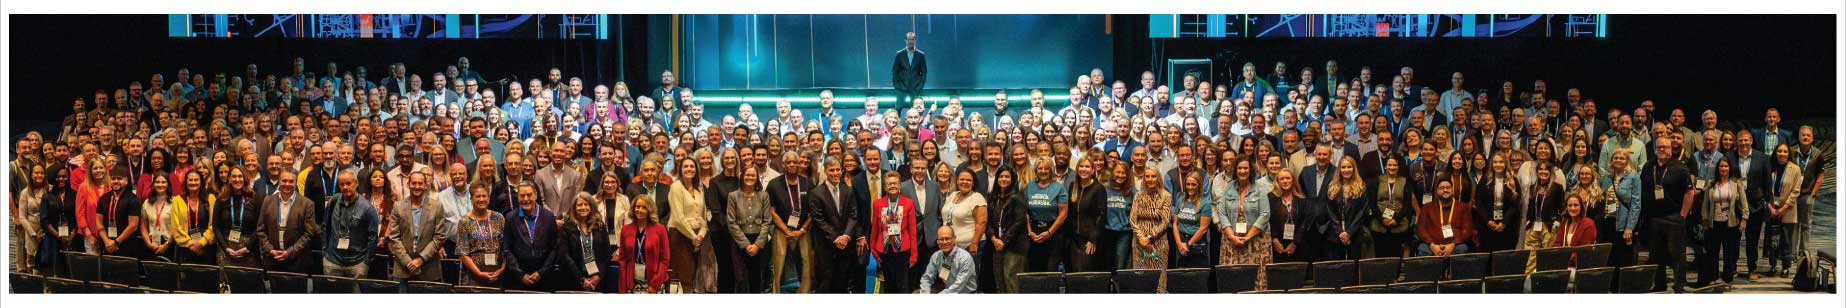
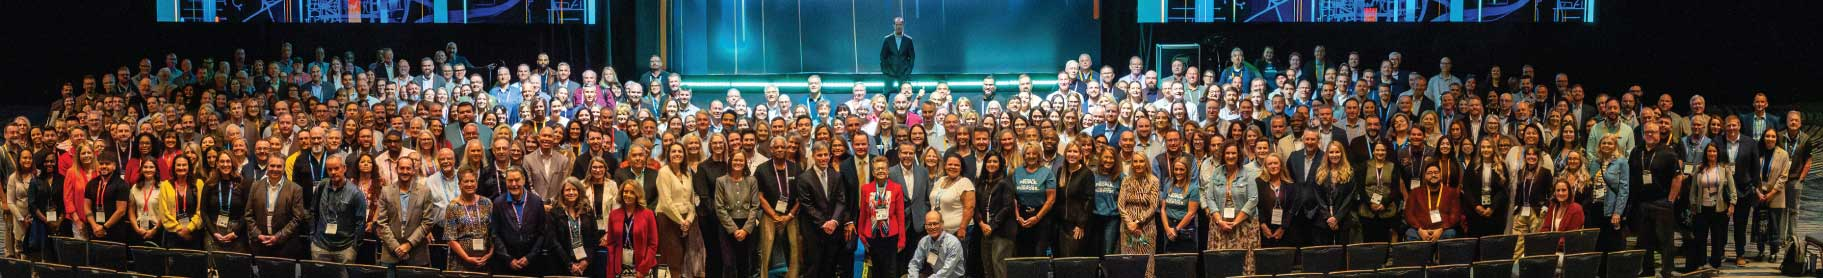
Update group photo to make it look less weird.

diff --git a/index.html b/index.html
@@ -382,7 +382,7 @@
 
         </section>
         
-        <img src="img/photo-group.jpg" class="section-divider" />
+        <img src="img/photo-group.jpg?v=1" class="section-divider" />
 
         <a name="strategic-messaging"></a>
         <section class="strategic-messaging">
